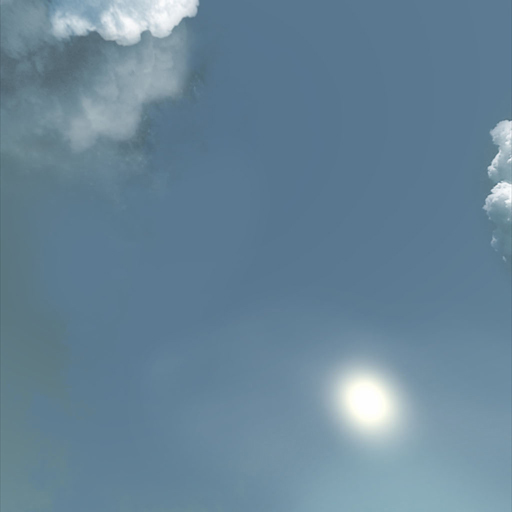
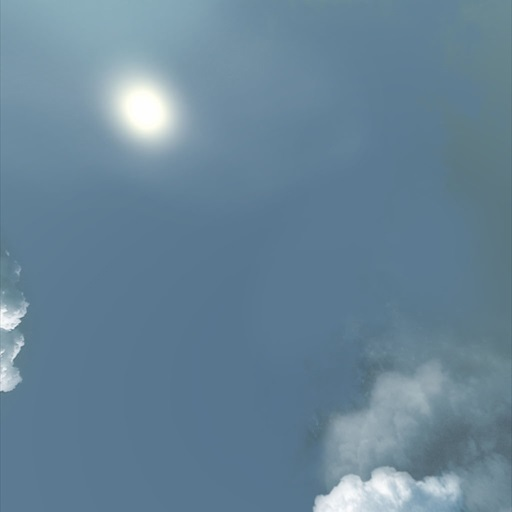
Skybox finished; shrinking and growing finished.

diff --git a/Assignment-final/index.html b/Assignment-final/index.html
@@ -4,7 +4,7 @@
 	 <script src="https://ajax.googleapis.com/ajax/libs/jquery/1.11.3/jquery.min.js"></script>
 	<script src=CT_Modeler.js></script>
 </head>
-<body style="background:white;">
+<body style="background:black;">
 
 
 <script>
@@ -21,7 +21,7 @@
 	var deltaMouseX = 0,
 	    deltaMouseY = 0;
 	
-	var scaleFactor = 2,
+	var scaleFactor = 1.0001,
 		mouseScale = 3,
 		speedFactor = 1;
 
@@ -69,26 +69,6 @@
 	   ,'}'
 	].join('\n');
 	
-	var isoSurface = ['const vec3 carDims = vec3(.9,.72,2.4);'
-	,'float isosurface( vec3 pos ){'
-	,'const float smoothing = .1;'
-	,'return'
-		,'log('
-				,'exp((-pos.y-carDims.y)/smoothing)'
-				,'+ exp((pos.x-carDims.x)/smoothing)'
-				,'+ exp((-pos.x-carDims.x)/smoothing)'
-				,'+ 1.0/('
-				,'	exp(-(length(pos-vec3(0,carDims.y-2.0,-.5))-2.0)/smoothing)'
-				,'	+ 1.0/('
-				,'		exp((dot(pos,vec3(0,.9992,.04))-0.2)/smoothing)'
-				,'		+ exp((dot(pos,vec3(0,.93675,.35))-.8)/smoothing)'
-				,'		+ exp((pos.z-carDims.z)/smoothing)'
-				,'		+ exp((-pos.z-carDims.z)/smoothing)'
-				,'	)'
-			,'	)'
-		,'	)*smoothing;'
-	,'}'].join('\n');
-	
 	var spireShader = ['precision highp float;'
 				 ,'varying vec3 vNormal;'
 				 ,noise
@@ -100,7 +80,6 @@
 				 
 	var ballShader = ['precision highp float;'
 			 ,'varying vec3 vNormal;'
-			 ,isoSurface
 			 ,'void main() {'
 			 ,'vec3 n = normalize(vNormal);'
 			 ,'n = n*n/sin(n) / 4.;'
@@ -288,12 +267,26 @@
 		   .translate(0,0,3);
 		box.addChild(sq);
 		
+		sq = new CT.Square();
+		sq.scale(100000)
+		   .rotateX(PI / 2)
+		   .setTexture('images/sbox5.jpg')
+		   .translate(0,-4,-1);
+		box.addChild(sq);
+		
+		sq = new CT.Square();
+		sq.scale(100000)
+		   .rotateX(PI / 2)
+		   .setTexture('images/sbox6.jpg')
+		   .translate(0,-4,1);
+		box.addChild(sq);
+		
 		box.translate(0,0,404000);
 	}
 
 	function init() {
 		window.scene = new CT.Scene(canvas1);
-		scene.setLight(0, [0,0,0]);
+		scene.setLight(0, [-1,-1,0]);
 		allObjs = scene._objects;
 		
 		for (var i = 0; i < 3; ++i) {
@@ -343,25 +336,25 @@
 	function handleKeys() {
 		var k = pressedKeys;
 		if (k[49]) {
-			speedFactor = Math.max(.01, speedFactor / 2);
+			speedFactor = Math.max(.01, speedFactor - speedFactor);
 		} 
 		if (k[50]) {
-			speedFactor = Math.min(10000,(speedFactor * 2));
+			speedFactor = Math.min(10000,(speedFactor + speedFactor));
 		}
 		if (k[81]) {
 			growBigger = true; //console.log("Q pressed");
 		}
 		if (k[87]) {
-			translZ -= (2 * speedFactor);//console.log("W pressed");
+			translZ = translZ - (2 * speedFactor);//console.log("W pressed");
 		}
 		if (k[65]) {
-			translX -= (2 * speedFactor);//console.log("A pressed");
+			translX = translZ - (2 * speedFactor);//console.log("A pressed");
 		}
 		if (k[83]) {
-			translZ += (2 * speedFactor);//console.log("S pressed");
+			translZ = translZ + (2 * speedFactor);//console.log("S pressed");
 		}
 		if (k[68]) {
-			translX += (2 * speedFactor);//console.log("D pressed");
+			translX = translZ + (2 * speedFactor);//console.log("D pressed");
 		}
 		if (k[69]) {
 			shrinkSmaller = true; // console.log("E pressed");
@@ -402,9 +395,9 @@
 			return scaleFactor;
 		}
 		if (shrinkSmaller) {
-			return 1 / scaleFactor;
+			return 1. / scaleFactor;
 		}
-		return 1;
+		return 1.;
 	}
 
 	//HANDLES ALL I/O MOVEMENT VIA MOUSE AND KEYBOARD
@@ -433,10 +426,11 @@
 		
 		for (var i = 0; i < allObjs.push(); ++i) {
 			allObjs[i].draw();
-		}
-		//SCALE ALL OBJECTS BIGGER OR SMALLER
-		if (growBigger || shrinkSmaller) {
-			objs.scale(getScale(), getScale(), getScale());
+			//SCALE ALL OBJECTS BIGGER OR SMALLER
+			if (growBigger || shrinkSmaller) {
+				//console.log(getScale());
+				allObjs[i].scale(getScale(), getScale(), getScale());
+			}
 		}
 	}
 
@@ -452,9 +446,9 @@
 	}
 
 	function update() {
-		objectDraw();
 		handleKeys();
 		handleMovement();
+		objectDraw();
 		resetProperties();
 	}
 
@@ -468,6 +462,12 @@
 	);
 </script>
 <center>
-<canvas id=canvas1 height=720 width=1080 style="background:black;"></canvas>
+	<canvas id=canvas1 height=720 width=1080 style="background:white;"></canvas>
+	<div style="color:white;">
+	<p>WASD to move forward/backwards and left/right.</p>
+	<p>Click on canvas to capture mouse, ESC to escape. Move mouse to control camera.</p>
+	<p>1 and 2 keys to decrease and increase speed of WASD movement respectively.</p>
+	<p>Q and E handle shrinking and growing the objects.</p>
+	</div>
 </center>
 </body>
